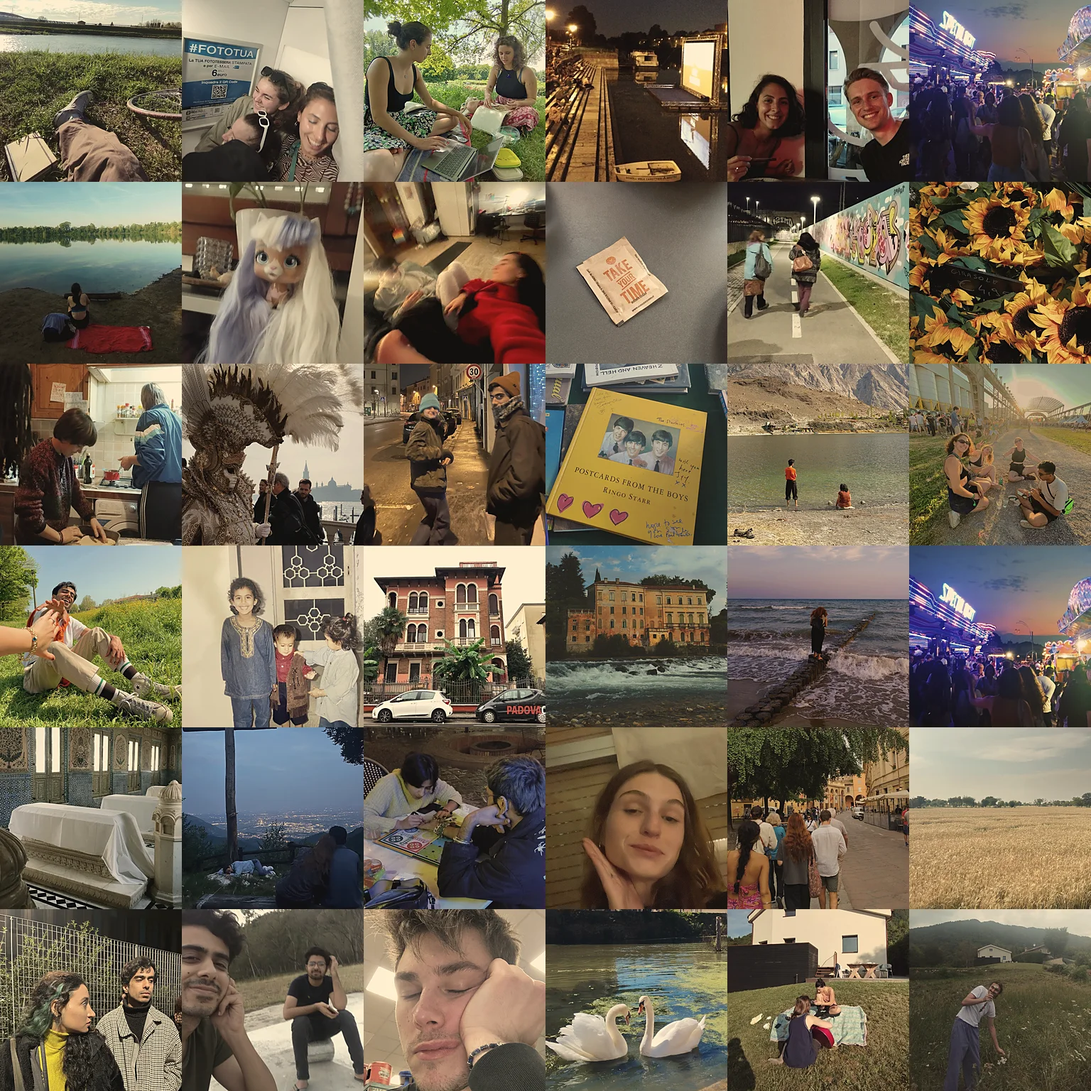
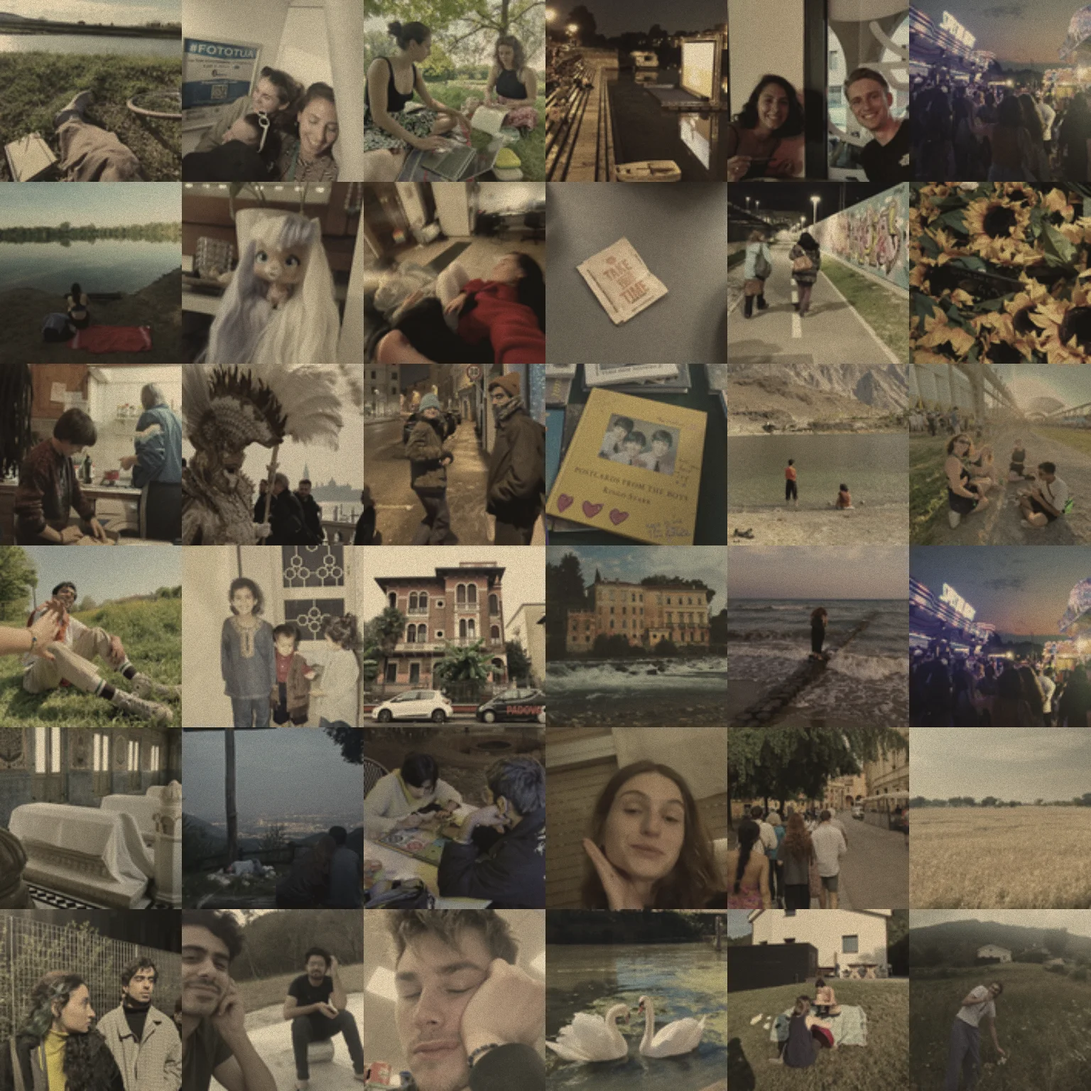
Red room: cable from a darkroom socket across the floor with a low tracking shot, layered drying lines that stir near the camera, vintage low-quality photos, visible projector beam with smoke, scroll settles forward
Claude-Session: https://claude.ai/code/session_019gjizZawYLezfQ4cawKNfT

diff --git a/src/redroom.js b/src/redroom.js
@@ -122,8 +122,9 @@ const DARK = (() => {
 	D.tube = { x: 0.07, y: 3.05, z0: D.b[0] + 0.2, z1: D.b[1] - 0.2 };
 	// the drying lines: [x out from the wall, height, from z, to z, sag]
 	D.lines = [
-		[0.5, 2.62, SHAFTS[0], SHAFTS[1], 0.14], [0.5, 2.62, SHAFTS[1], SHAFTS[2], 0.16],
-		[0.5, 2.08, SHAFTS[1], SHAFTS[2], 0.12]
+		[0.32, 2.74, SHAFTS[0], SHAFTS[1], 0.12], [0.74, 2.52, SHAFTS[0], SHAFTS[1], 0.17], [1.1, 2.62, SHAFTS[0], SHAFTS[1], 0.2],
+		[0.3, 2.76, SHAFTS[1], SHAFTS[2], 0.15], [0.68, 2.46, SHAFTS[1], SHAFTS[2], 0.19], [1.06, 2.66, SHAFTS[1], SHAFTS[2], 0.22],
+		[0.5, 1.98, SHAFTS[1], SHAFTS[2], 0.12]
 	];
 	return D;
 })();
@@ -156,27 +157,24 @@ const PROJ = (() => {
 // photographs (after his darkroom references)
 const SAFE = { x0: 4.2, x1: 11.8, y: 9.0, z: L - 0.16 };
 
-// THE CABLE: one thick black cable through the whole room, the line the
-// camera will follow. In by the door, across the floor to the left wall,
-// up a column, slung high across the room to a column on the right, down
-// it, along the floor and round in a loose loop to the televisions, where
-// it goes in at the back of the middle set. (Room metres; CABLE.r is its
-// radius; CABLE.path is the line through its middle.)
+// THE CABLE: one thick black cable through the room, the line the camera
+// follows. It is plugged into a socket low on the left wall at the end of
+// the darkroom, drops to the floor and crosses it in a long lazy S to the
+// right wall under the polaroids, runs along it and round in a loose loop
+// to the televisions, where it goes in at the back of the middle set.
+// (Room metres; CABLE.r is its radius; CABLE.path is the line through its
+// middle; CABLE.socket where it is plugged in; CABLE.run the stretch of
+// path across the floor, for the camera.)
 const CABLE = { r: 0.045 };
 (() => {
-	const r = CABLE.r, xl = 0.51, xr = W - 0.51;
-	const A = [xl, 5.5, SHAFTS[1]], B = [xr, 6.1, SHAFTS[2]];
-	const sling = [];
-	for (let i = 1; i < 14; i++) {
-		const t = i / 14;
-		sling.push([A[0] + (B[0] - A[0]) * t, A[1] + (B[1] - A[1]) * t - 2.0 * 4 * t * (1 - t), A[2] + (B[2] - A[2]) * t]);
-	}
+	// (the socket is low in the front of the darkroom's second bench)
+	const r = CABLE.r, d = DARK.depth, zs = DARK.b[1] - 0.22;
+	CABLE.socket = [d, 0.3, zs];
 	CABLE.ctrl = [
-		[W / 2 + 0.5, r, -1.3], [W / 2 + 0.2, r, 1.0], [7.2, r, 3.1], [4.7, r, 4.5], [2.5, r, 6.0], [1.0, r, 6.95], [0.72, r * 1.2, SHAFTS[1]],
-		[0.68, 0.3, SHAFTS[1]], [0.66, 0.53, SHAFTS[1]], [0.55, 0.62, SHAFTS[1]], [xl, 1.0, SHAFTS[1]], [xl, 3.2, SHAFTS[1]], A,
-		...sling,
-		B, [xr, 3.4, SHAFTS[2]], [xr, 1.0, SHAFTS[2]], [W - 0.55, 0.62, SHAFTS[2]], [W - 0.66, 0.53, SHAFTS[2]], [W - 0.68, 0.3, SHAFTS[2]],
-		[W - 0.75, r * 1.2, SHAFTS[2] + 0.25], [W - 1.1, r, 14.6], [W - 1.7, r, 16.2], [W - 2.5, r, 17.6], [12.9, r, 18.5], [11.5, r, 18.9],
+		[d + 0.1, 0.3, zs], [d + 0.2, 0.295, zs], [d + 0.3, 0.22, zs + 0.02], [d + 0.42, r, zs + 0.1], [d + 0.8, r, zs + 0.3],
+		[1.8, r, zs + 0.45], [3.4, r, zs + 0.1], [5.2, r, zs - 0.55], [7.2, r, zs - 0.95], [9.4, r, zs - 0.9],
+		[11.4, r, zs - 0.45], [13.2, r, zs + 0.1], [W - 1.15, r, zs + 0.55], [W - 0.85, r, zs + 1.05],
+		[W - 0.85, r, 15.2], [W - 1.1, r, 16.3], [W - 1.7, r, 17.2], [W - 2.5, r, 17.9], [12.9, r, 18.5], [11.5, r, 18.9],
 		[10.6, r, 19.5], [10.5, r, 20.3], [11.2, r, 20.5], [10.9, r, 19.95], [10.0, r * 2.2, 20.1], [9.3, r, 20.75], [9.5, r, 21.9], [8.6, r, 22.25], [8.1, 0.22, 21.95]
 	];
 	// a smooth line through them (Catmull-Rom), a point every few centimetres
@@ -193,6 +191,9 @@ const CABLE = { r: 0.045 };
 	// (lying on the floor it never sinks into it)
 	for (const q of out) if (q[1] < r && q[2] > -1.4) q[1] = r;
 	CABLE.path = out;
+	let a = out.findIndex((q) => q[1] <= r * 1.01);
+	let b = out.findIndex((q, i) => i > a && q[0] > W - 1.3);
+	CABLE.run = [a, b];
 })();
 
 // THE POLAROIDS: his photographs, blurred and darkened as if left in the
@@ -490,6 +491,7 @@ function build() {
 			const pts = [];
 			for (let i = 0; i <= 24; i++) { const u = i / 24; pts.push(darkLineAt(ln, u)); }
 			tube(g, pts, 0.0035, 5, K.CABLE);
+			for (const e of [pts[0], pts[24]]) tube(g, [[0.0, e[1] + 0.05, e[2]], [e[0] * 0.5, e[1] + 0.02, e[2]], [e[0] + 0.02, e[1], e[2]]], 0.007, 5, K.TRIM);
 		}
 	}
 
@@ -501,8 +503,15 @@ function build() {
 		const gx = W / 2 + (i % 3 - 1) * 0.5, gz = TV.z + 2.3 + (i % 4) * 0.12;
 		tube(g, [[x, y, z - 0.05], [x + 0.05, y - 0.02, z + 0.15], [x + 0.1, Math.max(0.02, y * 0.4), z + 0.35], [x * 0.6 + gx * 0.4, 0.018, z + 0.6], [gx, 0.018, gz]], 0.012, 6, K.CABLE);
 	});
-	// the cable
-	tube(g, CABLE.path, CABLE.r, 9, K.CABLE);
+	// the cable, and the socket it is plugged into
+	tube(g, CABLE.path, CABLE.r, 16, K.CABLE);
+	{
+		const [sx, sy, sz] = CABLE.socket;
+		g.box(sx, sy - 0.07, sz - 0.07, sx + 0.018, sy + 0.07, sz + 0.07, K.STEEL);
+		g.box(sx + 0.018, sy - 0.035, sz - 0.032, sx + 0.11, sy + 0.035, sz + 0.032, K.TRIM);
+		// its little pilot lamp, glowing
+		g.box(sx, sy + 0.042, sz + 0.035, sx + 0.03, sy + 0.058, sz + 0.051, K.TUBE);
+	}
 	// the safelight
 	g.box(SAFE.x0 - 0.08, SAFE.y - 0.07, L - 0.08, SAFE.x0 - 0.02, SAFE.y + 0.07, L, K.TRIM);
 	g.box(SAFE.x1 + 0.02, SAFE.y - 0.07, L - 0.08, SAFE.x1 + 0.08, SAFE.y + 0.07, L, K.TRIM);
@@ -817,11 +826,11 @@ const SHADE = `
 		float f = fract(t / 3.4);
 		uv += vec2(sin(t * 13.0) * 0.0015 + (rhash(vec2(fr, 1.0)) - 0.5) * 0.003, (rhash(vec2(fr, 2.0)) - 0.5) * 0.006);
 		// an old print, only a touch soft: its colours faded, not gone
-		vec2 su = clamp(uv, 0.01, 0.99);
+		vec2 su = clamp((floor(uv * vec2(210.0, 158.0)) + 0.5) / vec2(210.0, 158.0), 0.01, 0.99);
 		vec2 tile = vec2(mod(k, 6.0), floor(k / 6.0));
 		vec3 pc = vec3(0.0);
 		for (int i = 0; i < 5; i++) {
-			vec2 o = i == 0 ? vec2(0.0) : vec2(i == 1 ? 1.0 : (i == 2 ? -1.0 : 0.0), i == 3 ? 1.0 : (i == 4 ? -1.0 : 0.0)) * 0.0028;
+			vec2 o = i == 0 ? vec2(0.0) : vec2(i == 1 ? 1.0 : (i == 2 ? -1.0 : 0.0), i == 3 ? 1.0 : (i == 4 ? -1.0 : 0.0)) * 0.0065;
 			pc += texture2D(memTex, (tile + vec2(clamp(su.x + o.x, 0.005, 0.995), 1.0 - clamp(su.y + o.y, 0.005, 0.995))) / 6.0).rgb * (i == 0 ? 0.4 : 0.15);
 		}
 		float l = dot(pc, vec3(0.3, 0.59, 0.11));
@@ -841,7 +850,7 @@ const SHADE = `
 		// the light falls off to the edges and corners of the frame
 		vec2 e = uv * (1.0 - uv);
 		float vig = clamp(pow(e.x * e.y * 16.0, 0.45), 0.0, 1.0);
-		vec3 c = mix(vec3(l), pcol * (l / max(l0, 0.02)), 0.55 * (1.0 - gap));
+		vec3 c = mix(vec3(l), pcol * (l / max(l0, 0.02)), 0.28 * (1.0 - gap));
 		return vec3(1.0, 0.86, 0.66) * max(c, 0.0) * vig;
 	}
 	// where a point in the room is in the projected picture (x, y in 0..1;
@@ -1196,19 +1205,19 @@ const TV_FRAG = `
 		float band = smoothstep(0.06, 0.0, abs(fract(uv.y * 0.7 - t * 0.31) - 0.5));
 		jit += band * 0.05 * (rhash(vec2(fr, 2.0)) - 0.3);
 		q.x += jit;
-		vec2 mu = clamp(q + 0.5, 0.002, 0.998);
+		vec2 mu = clamp((floor((q + 0.5) * vec2(150.0, 112.0)) + 0.5) / vec2(150.0, 112.0), 0.002, 0.998);
 		vec2 tile = vec2(mod(k, 6.0), floor(k / 6.0));
 		vec2 au = (tile + vec2(mu.x, 1.0 - mu.y)) / 6.0;
 		vec2 ca = vec2(0.004 + 0.01 * band, 0.0) / 6.0;
 		vec3 m = vec3(texture2D(memTex, au + ca).r, texture2D(memTex, au).g, texture2D(memTex, au - ca).b);
 		// drained and darkened, the shadows crushed
 		float l = lum(m);
-		l = pow(clamp(l * 1.12, 0.0, 1.0), 1.2);
+		l = pow(clamp(l * 1.1, 0.0, 1.0), 1.3);
 		vec3 mono = vec3(l);
 		// washed red, or cold and grey
 		float red = step(0.62, rhash(vec2(seg, 7.0 + seed)));
 		vec3 tint = mix(vec3(0.78, 0.86, 0.95), vec3(1.15, 0.28, 0.22), red);
-		m = mix(mono * tint, m * 1.05, 0.42);
+		m = mix(mono * tint, mix(vec3(l), m, 0.5) * 1.05, 0.22);
 		// the odd frame in negative
 		if (rhash(vec2(fr, seed * 3.0)) > 0.992) m = vec3(0.9) - m;
 		// grain over it, and the snow showing through
@@ -1297,20 +1306,31 @@ const POL_VERT = `
 	void main() {
 		vec3 q = position, n = normal;
 		v_style = style;
+		vec3 t0 = view[3].xyz;
+		vec3 eye0 = -vec3(dot(view[0].xyz, t0), dot(view[1].xyz, t0), dot(view[2].xyz, t0));
+		eye0.y *= yScale;
+		// the air the camera stirs as it comes close
+		float prox = 1.0 + 2.4 * smoothstep(3.6, 0.7, length(eye0 - pivot.xyz));
 		if (pivot.w < 0.0) {
-			// a print on a darkroom line (the line runs along z)
-			float w = -pivot.w;
+			// a print on a darkroom line (the line runs along z): it swings
+			// out from the line and turns on its peg
+			float w = -pivot.w * prox;
 			float a = w * sin(time * 0.8 + pivot.z * 2.3) + w * 0.4 * sin(time * 2.1 + pivot.z * 5.1);
+			float tw = w * 1.6 * sin(time * 0.55 + pivot.z * 3.7) + w * 0.5 * sin(time * 1.3 + pivot.z * 1.9);
 			vec3 d = q - pivot.xyz;
 			float c = cos(a), s = sin(a);
 			d = vec3(d.x * c - d.y * s, d.x * s + d.y * c, d.z);
 			n = vec3(n.x * c - n.y * s, n.x * s + n.y * c, n.z);
+			c = cos(tw); s = sin(tw);
+			d = vec3(d.x * c - d.z * s, d.y, d.x * s + d.z * c);
+			n = vec3(n.x * c - n.z * s, n.y, n.x * s + n.z * c);
 			q = pivot.xyz + d;
 		}
 		if (pivot.w > 0.0) {
 			// stirring on its peg, in the room's slow air
-			float a = pivot.w * sin(time * 0.7 + pivot.x * 1.7) + pivot.w * 0.4 * sin(time * 1.9 + pivot.x * 4.1);
-			float r = pivot.w * 0.6 * sin(time * 0.5 + pivot.x * 2.3);
+			float pw = pivot.w * prox;
+			float a = pw * sin(time * 0.7 + pivot.x * 1.7) + pw * 0.4 * sin(time * 1.9 + pivot.x * 4.1);
+			float r = pw * 0.6 * sin(time * 0.5 + pivot.x * 2.3);
 			vec3 d = q - pivot.xyz;
 			float c = cos(a), s = sin(a);
 			d = vec3(d.x, d.y * c - d.z * s, d.y * s + d.z * c);
@@ -1403,13 +1423,15 @@ const BEAM_FRAG = `
 		float smoke = rfbm(vec2(lp.x * 0.8 + time * 0.05, lp.y * 0.7 - lp.z * 0.12 + time * 0.03)) * rfbm(vec2(lp.z * 0.5 - time * 0.04, lp.y * 0.9));
 		float along = pu.z;
 		// soft at its edges, as a beam through smoke is
-		float lsc = v_layer < 0.5 ? 1.0 : (v_layer < 1.5 ? 0.8 : 0.58);
-		vec2 eg = (min(pu.xy, 1.0 - pu.xy) - (1.0 - lsc) * 0.5) / lsc;
-		float edge = smoothstep(0.0, 0.3, eg.x) * smoothstep(0.0, 0.3, eg.y);
+		// (each layer is a smaller copy of the beam inside the last: the
+		// further in, the denser, so the light gathers to a core)
+		vec2 eg = min(pu.xy, 1.0 - pu.xy);
+		float edge = smoothstep(0.0, 0.5, min(eg.x, eg.y));
 		// strong at the lens, thinning out towards the wall
-		float a = (0.25 + 2.2 * smoke) * (0.35 + 0.65 * exp(-along * 2.2)) * smoothstep(0.0, 0.04, along);
+		fl = max(fl, vec3(0.3, 0.24, 0.17));
+		float a = (0.35 + 2.2 * smoke) * (0.3 + 0.7 * exp(-along * 2.4)) * smoothstep(0.0, 0.03, along) + 2.2 * exp(-along * 10.0) * (0.6 + 0.8 * smoke);
 		float dist = length(v_eye - v_pos);
-		gl_FragColor = vec4(fl * a * edge * 0.05 * (1.0 + v_layer * 0.7) * (1.0 - exp(-dist * 0.8)), 1.0);
+		gl_FragColor = vec4(fl * a * edge * 0.075 * smoothstep(0.25, 1.4, dist), 1.0);
 	}`;
 
 
@@ -1754,7 +1776,7 @@ module.exports = function (regl) {
 	const beamPos = [], beamLayer = [];
 	{
 		const Lw = [O[0] + PROJ.lens[0], O[1] + PROJ.lens[1], O[2] + PROJ.lens[2]];
-		[1.0, 0.8, 0.58].forEach((sc, li) => {
+		[0.96, 0.86, 0.76, 0.66, 0.56, 0.46, 0.36].forEach((sc, li) => {
 			const hw = PROJ.img.w / 2 * sc, hh = PROJ.img.h / 2 * sc;
 			const c = [[-hw, -hh], [hw, -hh], [hw, hh], [-hw, hh]].map(([x, y]) => [O[0] + PROJ.img.x + x, O[1] + PROJ.img.y + y, O[2] + L - 0.02]);
 			for (let i = 0; i < 4; i++) {
@@ -1909,6 +1931,66 @@ module.exports = function (regl) {
 		uniforms: { pxScale: (ctx) => ctx.viewportHeight * 1.2 }
 	});
 
+	// ---- smoke: curling up out of the lamp house and drifting through the
+	// light at the lens, lit where it crosses the beam
+	const SMOKE_N = 70;
+	const smokeSeeds = [];
+	for (let i = 0; i < SMOKE_N; i++) smokeSeeds.push(Math.random(), Math.random(), Math.random(), i < SMOKE_N * 0.6 ? 1 : 0);
+	const smokeDraw = regl({
+		vert: `
+			precision highp float;
+			uniform mat4 proj, view;
+			uniform float time, pxScale, yScale;
+			attribute vec4 seed;
+			varying float v_b, v_a, v_s;
+			void main() {
+				vec3 L0 = vec3(${f(O[0] + PROJ.lens[0])}, ${f(O[1] + PROJ.lens[1])}, ${f(O[2] + PROJ.lens[2])});
+				vec3 C = vec3(${f(O[0] + PROJ.img.x)}, ${f(O[1] + PROJ.img.y)}, ${f(O[2] + L)});
+				vec3 fw = normalize(C - L0);
+				float life = fract(time * (0.07 + 0.04 * seed.y) + seed.x);
+				vec3 p;
+				if (seed.w > 0.5) {
+					// at the lens, pulled forward into the beam
+					p = L0 + fw * (0.05 + life * 1.3) + vec3((seed.z - 0.5) * 0.16, life * 0.32 + (seed.y - 0.5) * 0.1, 0.0);
+				} else {
+					// up out of the lamp house's vents
+					p = L0 + vec3((seed.z - 0.5) * 0.12, 0.08 + life * 0.75, -0.32 + (seed.y - 0.5) * 0.12);
+				}
+				p.x += sin(time * 0.6 + seed.y * 20.0) * 0.06 * life;
+				p.z += cos(time * 0.4 + seed.z * 17.0) * 0.05 * life;
+				// how much of the beam's light it is in
+				vec3 d = p - L0;
+				float al = max(dot(d, fw), 0.0);
+				float perp = length(d - fw * al);
+				float rc = 0.04 + al * ${f(PROJ.img.h * 0.5)} / length(C - L0);
+				v_b = 0.12 + 1.4 * smoothstep(rc + 0.06, rc * 0.5, perp) * smoothstep(0.0, 0.06, al);
+				v_a = sin(3.14159 * life) * (0.5 + 0.5 * seed.y);
+				v_s = seed.x * 31.0 + seed.z * 7.0;
+				vec3 pw = p; pw.y *= yScale;
+				vec4 v = view * vec4(pw, 1.0);
+				gl_Position = proj * v;
+				gl_PointSize = clamp(pxScale * (0.14 + 0.36 * life) / max(0.2, -v.z), 2.0, 600.0);
+			}`,
+		frag: `
+			precision highp float;
+			uniform float time;
+			varying float v_b, v_a, v_s;
+			${COMMON}
+			void main() {
+				vec2 d = gl_PointCoord - 0.5;
+				float g = exp(-dot(d, d) * 9.0);
+				float n = rnoise(gl_PointCoord * 3.2 + v_s + time * 0.05) * 0.7 + rnoise(gl_PointCoord * 7.0 - v_s) * 0.3;
+				float a = g * smoothstep(0.2, 0.8, n) * v_a * 0.15;
+				gl_FragColor = vec4(mix(vec3(0.5, 0.06, 0.04), vec3(1.0, 0.86, 0.68), clamp(v_b - 0.12, 0.0, 1.0)) * v_b * a, 1.0);
+			}`,
+		attributes: { seed: smokeSeeds },
+		count: SMOKE_N,
+		primitive: 'points',
+		depth: { enable: true, mask: false },
+		blend: { enable: true, func: { src: 'one', dst: 'one' } },
+		uniforms: { pxScale: (ctx) => ctx.viewportHeight * 1.2 }
+	});
+
 	const DUST_N = 2200;
 	const seeds = [];
 	for (let i = 0; i < DUST_N; i++) seeds.push(Math.random(), Math.random(), Math.random(), Math.random());
@@ -1938,6 +2020,7 @@ module.exports = function (regl) {
 		drawProps(typeof window !== 'undefined' && window.__tvTime != null ? window.__tvTime : t);
 		if (memTexShared && !(typeof window !== 'undefined' && window.__noBeam)) beamDraw();
 		lensDraw();
+		if (!reflected && !(typeof window !== "undefined" && window.__noSmoke)) smokeDraw();
 		if (!reflected) sparkDraw();
 		if (!reflected) dust();
 	};

diff --git a/src/redtour.js b/src/redtour.js
@@ -48,12 +48,6 @@ const BASE_KEYS = [
 	{ eye: [1.05, 1.5, tray - 0.42], at: [DARK.TXc - 0.02, DARK.liquid, tray + 0.04], fov: 34, dof: 0.2, p: { eye: [1.0, 1.55, tray - 0.45], fov: 52 } },
 	// up to the prints drying on their lines
 	{ eye: [2.0, 1.6, 8.3], at: [0.4, 2.25, 11.3], fov: 50, dof: 0.12, p: { eye: [1.8, 1.6, 8.1], fov: 72 } },
-	// the cable, climbing the shaft
-	{ eye: [4.2, 1.7, 5.6], at: [0.5, 3.6, 7.6], fov: 58, dof: 0.04, p: { fov: 76 } },
-	// up with it as it is slung across the room
-	{ eye: [3.6, 5.4, 8.0], at: [10.5, 5.0, 11.6], fov: 56, dof: 0.04, p: { fov: 76 } },
-	// down the far side, the polaroids between the windows
-	{ eye: [11.6, 2.9, 10.6], at: [W, 3.3, 14.6], fov: 52, dof: 0.06, p: { fov: 72 } }
 ];
 
 // a smooth curve through points (Catmull-Rom), s from 0 to the last point
@@ -73,6 +67,21 @@ function spline(pts, s) {
 // drawing back between them; and the memories on the far wall
 function buildKeys() {
 	const K = BASE_KEYS.slice();
+	// the cable: where it is plugged in, low, close; then down on the floor
+	// with it, following it across the room to the polaroids' wall
+	const C = room.ROOM.CABLE, cp = C.path, zs = C.socket[2];
+	const sx = C.socket[0];
+	K.push({ eye: [sx + 1.05, 0.42, zs - 0.45], at: [sx, 0.27, zs + 0.08], fov: 42, dof: 0.32, p: { eye: [sx + 1.3, 0.48, zs - 0.55], fov: 58 } });
+	const [ra, rb] = C.run;
+	for (const fr of [0.04, 0.22, 0.42, 0.62, 0.82]) {
+		const i = Math.round(ra + (rb - ra) * fr);
+		const a = cp[Math.max(0, i - 6)], b = cp[Math.min(cp.length - 1, i + 6)], q = cp[i];
+		let dx = b[0] - a[0], dz = b[2] - a[2];
+		const dl = Math.hypot(dx, dz) || 1; dx /= dl; dz /= dl;
+		K.push({ eye: [q[0] - dx * 0.8 - dz * 0.12, 0.3, q[2] - dz * 0.8 + dx * 0.12], at: [q[0] + dx * 1.5, 0.06, q[2] + dz * 1.5], fov: 44, dof: 0.24, pass: true, p: { fov: 60 } });
+	}
+	// it reaches the right wall, and the polaroids rise up it
+	K.push({ eye: [W - 3.0, 0.45, zs - 1.6], at: [W - 0.3, 1.9, zs + 0.9], fov: 50, dof: 0.1, p: { fov: 70 } });
 	const add3 = (a, b, k) => [a[0] + b[0] * k, a[1] + b[1] * k, a[2] + b[2] * k];
 	let seed = 11;
 	const rnd = () => { seed = (seed * 16807) % 2147483647; return (seed - 1) / 2147483646; };
@@ -100,7 +109,7 @@ function buildKeys() {
 	K.push({ eye: [PX - 0.55, 1.75, PZ - 1.4], at: [W / 2, 5.0, L], fov: 50, dof: 0.06, p: { fov: 70 } });
 	// the televisions: all of them, then one by one, in no order
 	const sets = TV.stack;
-	K.push({ eye: [W / 2 + 0.5, 1.9, TV.z - 6.2], at: [W / 2, 1.8, TV.z], fov: 48, dof: 0.05, p: { fov: 70 } });
+	K.push({ eye: [W / 2 + 1.4, 1.2, TV.z - 4.9], at: [W / 2, 1.75, TV.z], fov: 50, dof: 0.05, p: { fov: 70 } });
 	const order = sets.map((t, i) => i);
 	for (let i = order.length - 1; i > 0; i--) { const j = Math.floor(rnd() * (i + 1)); const x = order[i]; order[i] = order[j]; order[j] = x; }
 	let prev = null;
@@ -127,18 +136,34 @@ module.exports = function createRedTour() {
 	const END = KEYS.length - 1;
 	// the shots the camera stops on
 	const STOPS = KEYS.map((k, i) => (k.pass ? -1 : i)).filter((i) => i >= 0);
-	const nearestStop = (x) => STOPS.reduce((b, i) => (Math.abs(i - x) < Math.abs(b - x) ? i : b), STOPS[0]);
+	// where to come to rest: the next shot the way the visitor was going
+	// (never back past where they let go, unless they were all but there)
+	const settleStop = (x, d) => {
+		if (d >= 0) { for (const i of STOPS) if (i >= x - 0.06) return i; return STOPS[STOPS.length - 1]; }
+		for (let j = STOPS.length - 1; j >= 0; j--) if (STOPS[j] <= x + 0.06) return STOPS[j];
+		return STOPS[0];
+	};
 	const nextStop = (x, d) => {
 		if (d > 0) { for (const i of STOPS) if (i > x + 0.01) return i; return STOPS[STOPS.length - 1]; }
 		for (let j = STOPS.length - 1; j >= 0; j--) if (STOPS[j] < x - 0.01) return STOPS[j];
 		return STOPS[0];
 	};
 	let eyeS = null, atS = null;
-	let scroll = 0, target = 0, last = null, lastInput = -10, now = 0, startAt = null;
+	let scroll = 0, target = 0, last = null, lastInput = -10, now = 0, startAt = null, dir = 1, dirAt = -10;
 	const listeners = [];
 	const on = (t, fn, o) => { window.addEventListener(t, fn, o); listeners.push([t, fn, o]); };
-	const push = (d) => { target = Math.max(0, Math.min(END, target + d)); lastInput = now; };
-	const go = (d) => { target = nextStop(target, d); lastInput = now - 10; };
+	const push = (d) => {
+		const sd = Math.sign(d);
+		if (!sd) return;
+		// (a trackpad's tail of momentum can twitch backwards: ignore a tiny
+		// reverse just after a gesture)
+		if (sd !== dir && now - dirAt < 0.25 && Math.abs(d) < 0.02) return;
+		if (sd !== dir) dir = sd;
+		dirAt = now;
+		target = Math.max(0, Math.min(END, target + d));
+		lastInput = now;
+	};
+	const go = (d) => { dir = d > 0 ? 1 : -1; target = nextStop(target, d); lastInput = now - 10; };
 	on('wheel', (e) => {
 		if (e.target.closest && e.target.closest('.st-ui')) return;
 		e.preventDefault();
@@ -175,9 +200,9 @@ module.exports = function createRedTour() {
 		// (tests: ?tourdebug and window.__redShot put the camera anywhere)
 		if (typeof window !== 'undefined' && window.__redShot !== undefined && /tourdebug/.test(location.search)) { scroll = target = window.__redShot; }
 		// when the visitor stops, the camera settles on the nearest shot
-		if (now - lastInput > 0.5) target += (nearestStop(target) - target) * (1 - Math.exp(-dt * 2.2));
+		if (now - lastInput > 0.35) target += (settleStop(target, dir) - target) * (1 - Math.exp(-dt * 2.0));
 		// a heavy, smooth glide
-		scroll += (target - scroll) * (1 - Math.exp(-dt * 1.5));
+		scroll += (target - scroll) * (1 - Math.exp(-dt * 1.7));
 		if (Math.abs(target - scroll) < 1e-4) scroll = target;
 
 		const portrait = window.innerWidth < window.innerHeight;
